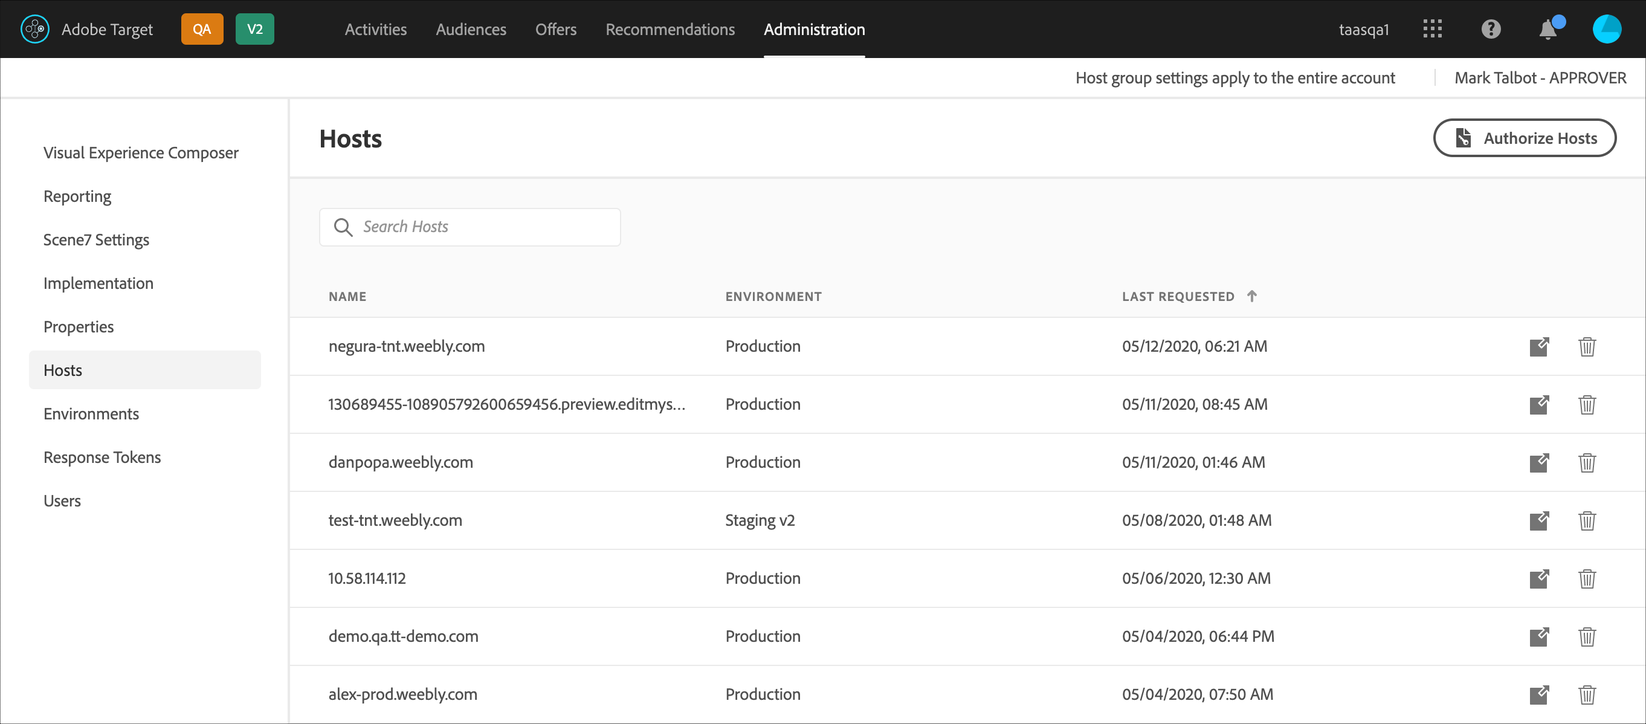
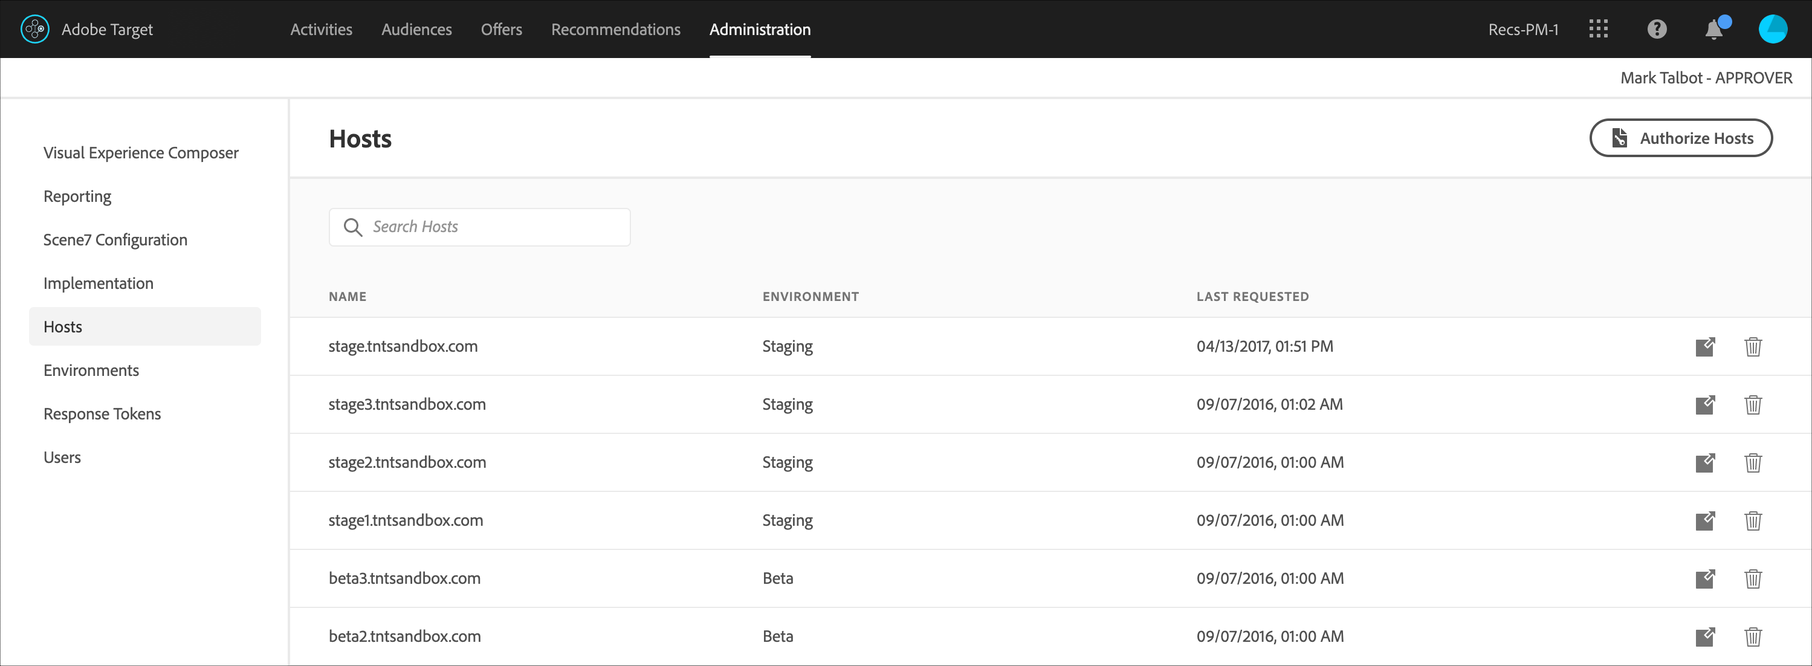
admin cleanup

diff --git a/help/administrating-target/reporting.md b/help/administrating-target/reporting.md
@@ -7,7 +7,7 @@ topic: Standard
 
 # Configure reporting in Target
 
-Configure general settings to use in Target reporting that apply to your entire [!DNL Target] account.
+Configure general settings to use in [!DNL Adobe Target] reporting that apply to your entire [!DNL Target] account.
 
 >[!NOTE]
 >
@@ -24,21 +24,24 @@ You can specify the following settings on this page:
 * Whether to show estimated lift in revenue in reporting
 * Whether to enable fine-grained priorities
 
+>[!NOTE]
+>
+>Be aware that the time zone, currency, and IP addresses to exclude settings apply to activities that use [!DNL Target] reporting. These settings do not apply to activities that use [Analytics for Target (A4T)] as the reporting source (/help/c-integrating-target-with-mac/a4t/a4t.md).
+
 ![Reporting page](/help/administrating-target/assets/reporting.png)
 
 ## Reporting Cloud Solution
 
 Set options that determine what data is used for your results and reports.
 
-Select the reporting source for your activities, either [!DNL Target] or Adobe Analytics. You can also choose to select your reporting source per activity. 
+Select the reporting source for your activities, either [!DNL Target] or [!DNL Adobe Analytics]. You can also choose to select your reporting source per activity. 
 
 Consider the following information as you choose your reporting source:
 
-* [!UICONTROL Auto-Allocate], [!UICONTROL Auto-Target], and [!UICONTROL Automated Personalization] (AP) activity creation, activation, and deactivation are allowed irrespective of the reporting source selected. These activity types are not supported when you choose [Adobe Analytics as the reporting source for Adobe Target (A4T)](/help/c-integrating-target-with-mac/a4t/a4t.md). Even if you specify Analytics as your reporting source, [!DNL Target] is used as the reporting source for these activity types.
-* If the reporting source is set to Analytics here, you are not allowed to activate an activity that uses [!DNL Target] as the reporting source (the reporting source is specified as Target per activity). You must change the reporting source to Analytics in your activity or change the reporting engine to Select Per Activity in Setup > Preferences.
-* If the reporting source is set to [!DNL Target] here, you are not allowed to activate an activity that uses Analytics as the reporting source. You must change the reporting source to [!DNL Target] in your activity or change the reporting source to Select Per Activity in Setup > Preferences.
-* If the reporting source is set to Select Per Activity here, you can create, activate, and deactivate activities that are supported by the selected reporting source. For a matrix of supported activities, see [Adobe Analytics as the reporting source for Adobe Target](/help/c-integrating-target-with-mac/a4t/a4t.md) (A4T).
-* When you switch from A/B Manual to [!UICONTROL Auto-Allocate] or [!UICONTROL Auto-Target], all metrics and reporting audiences are lost if the reporting source of the A/B Manual activity is not supported in [!UICONTROL Auto-Allocate] or [!UICONTROL Auto-Target] activities.
+* If the reporting source is set to **[!DNL Target]** here, you are not allowed to activate an activity that uses [!DNL Analytics] as the reporting source. You must change the reporting source to [!DNL Target] in your activity or change the reporting source to **[!UICONTROL Select per activity]** in **[!UICONTROL Administration] > [!UICONTROL Reporting]**.
+* If the reporting source is set to **[!DNL Analytics]** here, you are not allowed to activate an activity that uses [!DNL Target] as the reporting source (the reporting source is specified as **[!UICONTROL Target per activity])**. You must change the reporting source to [!DNL Analytics] in your activity or change the reporting engine to **[!UICONTROL Select per activity]** in **[!UICONTROL Administration] > [!UICONTROL Reporting]**.
+* If the reporting source is set to **[!UICONTROL Select per activity]** here, you can create, activate, and deactivate activities that are supported by the selected reporting source. For a matrix of supported activities, see [Supported activity types](/help/c-integrating-target-with-mac/a4t/a4t.md#section_F487896214BF4803AF78C552EF1669AA) in *Adobe Analytics as the reporting source for Adobe Target (A4t)*.
+* [!UICONTROL Automated Personalization] (AP) activity creation, activation, and deactivation are allowed irrespective of the reporting source selected. Automated Personalization activities are not supported when you choose [Adobe Analytics as the reporting source for Adobe Target (A4T)](/help/c-integrating-target-with-mac/a4t/a4t.md). Even if you specify [!DNL Analytics] as your reporting source, [!DNL Target] is used as the reporting source for Automated Personalization activities. For more information, see [Supported activity types](/help/c-integrating-target-with-mac/a4t/a4t.md#section_F487896214BF4803AF78C552EF1669AA) in *Adobe Analytics as the reporting source for Adobe Target (A4t)*.
 
 ## Timezone for Reporting
 
@@ -58,7 +61,7 @@ Enter each IP address on a new line.
 
 You can choose to show the estimated lift in revenue if you enter a monetary value for your goal. [!DNL Target] can estimate the revenue lift you would attain if all users view the winning experience. The estimated lift feature is disabled by default.
 
-Only Experience Cloud Admin users can enable or disable this feature. If estimated lift is disabled, the corresponding fields do not appear in the interface. Disabling the feature does not result in a loss of data, including the data used for your estimates. The estimates are based on data that is collected whether or not the feature is enabled.
+Only [!DNL Experience Cloud] Admin users can enable or disable this feature. If estimated lift is disabled, the corresponding fields do not appear in the interface. Disabling the feature does not result in a loss of data, including the data used for your estimates. The estimates are based on data that is collected whether or not the feature is enabled.
 
 For detailed information, see [Estimating Lift in Revenue](/help/administrating-target/r-target-account-preferences/estimating-lift-in-revenue.md).
 
@@ -66,6 +69,6 @@ For detailed information, see [Estimating Lift in Revenue](/help/administrating-
 
 Allow numerical entries for priority ranging from 0-999.
 
-Depending on your settings, the UI and options for  Priority  vary. You can use the legacy settings of Low, Medium, or High, or you can enable fine-grained priorities from 0 to 999.
+Depending on your settings, the UI and options for Priority  vary. You can use the legacy settings of Low, Medium, or High, or you can enable fine-grained priorities from 0 to 999.
 
 The priority is used if multiple activities are assigned to the same location with the same audience. If two or more activities are assigned to the location, the activity with the highest priority displays.

diff --git a/help/administrating-target/scene7-settings.md b/help/administrating-target/scene7-settings.md
@@ -6,9 +6,9 @@ topic: Standard
 uuid: 4b06a3ed-0e87-4e49-874f-2e479324f81c
 ---
 
-# Dynamic Media Classic integration{#scene-settings}
+# Scene7 configuration {#scene-settings}
 
-Target can be integrated with Adobe Dynamic Media Classic (formerly Scene7) to provide Digital Asset Management (DAM) in the Content Library.
+Target can be integrated with [!DNL Adobe Dynamic Media Classic] (formerly [!DNL Scene7]) to provide Digital Asset Management (DAM) in the Content Library.
 
 >[!NOTE]
 >
@@ -16,30 +16,30 @@ Target can be integrated with Adobe Dynamic Media Classic (formerly Scene7) to p
 
 >[!NOTE]
 >
->Integrating Target with Dynamic Media Classic enables delivery of assets (as part of activities) uploaded to the Adobe Experience Cloud assets folder. This integration does not enable access to all assets uploaded in Dynamic Media Classic for delivery in Target activities.
+>Integrating [!DNL Target] with [!DNL Dynamic Media Classic] enables delivery of assets (as part of activities) uploaded to the [!DNL Adobe Experience Cloud] assets folder. This integration does not enable access to all assets uploaded in [!DNL Dynamic Media Classic] for delivery in [!DNL Target] activities.
 
-If you already have a Dynamic Media account, you can supply your existing credentials. If you do not have an account, you can request a restricted-use Dynamic Media Classic account at no additional charge from your Adobe representative. This account can be used for purposes restricted for use in Target only. This service is made available to customers for workflows needing image-swap functionality.
+If you already have a [!DNL Dynamic Media] account, you can supply your existing credentials. If you do not have an account, you can request a restricted-use [!DNL Dynamic Media Classic] account at no additional charge from your [!DNL Adobe] representative. This account can be used for purposes restricted for use in [!DNL Target] only. This service is made available to customers for workflows needing image-swap functionality.
 
-If this setting is not configured, the Swap Image offer option within the activity creation workflow is not available. After this setting is configured, the option to swap/change image offers is available in both the [Visual Experience Composer (VEC) and in the Form-Based Experience Composer](../c-experiences/experiences.md#concept_A2E10F6AFB3D4AEAB6951EE14688848D). You can then leverage image offers with images that have been uploaded from the Adobe Experience Cloud for use in Target activities.
+If this setting is not configured, the [!UICONTROL Swap Image offer] option within the activity creation workflow is not available. After this setting is configured, the option to swap/change image offers is available in both the [Visual Experience Composer (VEC) and in the Form-Based Experience Composer](../c-experiences/experiences.md#concept_A2E10F6AFB3D4AEAB6951EE14688848D). You can then leverage image offers with images that have been uploaded from the [!DNL Adobe Experience Cloud] for use in [!DNL Target] activities.
 
-If you want to reference a public image URL directly in an offer or custom code during activity creation, you should deploy the image to your own web servers and use your own URL in the code. There is no way to obtain the published URL of an image uploaded into the Experience Cloud to consume directly or outside of targeting workflows using Adobe Target. This functionality is not allowed, as per contract.
+If you want to reference a public image URL directly in an offer or custom code during activity creation, you should deploy the image to your own web servers and use your own URL in the code. There is no way to obtain the published URL of an image uploaded into the [!DNL Experience Cloud] to consume directly or outside of targeting workflows using [!DNL Target]. This functionality is not allowed, as per contract.
 
-Note that the storage URL and the final publish URLs of images from Dynamic Media are different and one must NOT create offers using the storage link of images as delivery will not work in such cases. One must use the image offers capability as explained in our help documentation.
+Note that the storage URL and the final publish URLs of images from [!DNL Dynamic Media] are different and one must *NOT* create offers using the storage link of images as delivery will not work in such cases. You must use the image offers capability as explained in our help documentation.
 
-To integrate with Dynamic Media Classic (Scene7), you need to specify the following information. 
+To integrate with [!DNL Dynamic Media Classic] ([!DNL Scene7]), you need to specify the following information. 
 
-1. Click **[!UICONTROL Administration]** > **[!UICONTROL Scene7 Settings]**.
+1. Click **[!UICONTROL Administration]** > **[!UICONTROL Scene7 Configuration]**.
 
    ![Scene7 page](/help/administrating-target/assets/scene7.png)
 
-1. Specify the following Dynamic Media Classic account information:
+1. Specify the following [!DNL Dynamic Media Classic] account information:
 
-   **Region:** The region for your Dynamic Media account: North America, Europe, or Asia.
+   **Region:** The region for your [!DNL Dynamic Media] account: North America, Europe, or Asia.
 
-   **Adhoc folder:** The location for content that resides outside the target folder and are manually uploaded to Dynamic Media.
+   **Adhoc folder:** The location for content that resides outside the target folder and are manually uploaded to [!DNL Dynamic Media].
 
-   **Email address:** The email address used to log in to Dynamic Media Classic (Scene7).
+   **Email address:** The email address used to log in to [!DNL Dynamic Media Classic] ([!DNL Scene7]).
 
-   **Password:** The password used to log in to Dynamic Media Classic (Scene7).
+   **Password:** The password used to log in to [!DNL Dynamic Media Classic] ([!DNL Scene7]).
 
 1. Click **[!UICONTROL Submit]**.

diff --git a/help/administrating-target/hosts.md b/help/administrating-target/hosts.md
@@ -18,12 +18,6 @@ The primary goal of host management is to ensure that no inactive content accide
 
 A host is any web server (or web domain) from where you serve content during any stage of your project. Any host serving an mbox is recognized.
 
-Hosts are bundled into environments for ease of management. For example, you might have dozens of hosts grouped in two or three environments. The preset environments include [!UICONTROL Production], [!UICONTROL Staging], and [!UICONTROL Development]. You can add new environments and rename your environments, if desired.
-
-One environment, the default environment, is pre-named [!UICONTROL Production]. This default environment cannot be deleted, even if you rename it. [!DNL Target] assumes that this is where you will serve final, approved activities and tests.
-
-When an mbox request is received from new websites or domains, these new domains always appear in the [!UICONTROL Production] environment. The [!UICONTROL Production] environment cannot have its settings changed, so unknown or new sites are guaranteed to see only content that is active and ready. Host management also lets you easily ensure the quality of new activities and content in your test, staging, and development environments before you activate the activities.
-
 [!DNL Target] does not limit a host that can send and receive mboxes, so when new servers or domains come up, they automatically work (unless you've set up an allowlist or blocklist). This also enables ad testing on different domains you don't know or can't anticipate.
 
 To manage hosts, click **[!UICONTROL Administration]** > **[!UICONTROL Hosts]**.
@@ -55,7 +49,7 @@ After a host is added to the [!UICONTROL Host] list, make sure that the host is 
 
    By default, a newly recognized host is placed in the [!UICONTROL Production] environment. This is the safest environment because it does not allow inactive activities to be viewed from these hosts.
 
-1. (Conditional) Click the Move icon ( ![move icon](/help/administrating-target/assets/icon-move.png) ) to move the host into the [!UICONTROL Development], [!UICONTROL Staging], or other environment.
+1. (Conditional) Click the **[!UICONTROL Move]** icon ( ![move icon](/help/administrating-target/assets/icon-move.png) ) to move the host into the [!UICONTROL Development], [!UICONTROL Staging], or other environment.
 
 >[!NOTE]
 >
@@ -115,8 +109,6 @@ You can delete a host when it is no longer needed.
 >The host will be listed again if anyone browses to an mboxed page on the host.
 
 ## Troubleshooting hosts {#concept_B3D7583FA4BB480382CC7453529FE1B7}
-
-Best practices for managing and troubleshooting hosts in [!DNL Adobe Target].
 
 Try the following troubleshooting tips if you experience problems with your hosts:
 

diff --git a/help/administrating-target/environments.md b/help/administrating-target/environments.md
@@ -14,17 +14,11 @@ Organize your sites and pre-production environments for easy management and sepa
 >
 >The information in this topic has been updated to give you a sneak peak at the UI changes coming in the Target Standard/Premium 20.6.1 release (July 2020). Most of the information presented in this topic applies to the current UI; however, options might be in slightly different locations.
 
-The primary goal of host management is to ensure that no inactive content accidentally appears on websites. Host management also lets you separate report data by environment.
-
-A [host](/help/administrating-target/hosts.md) is any web server (or web domain) from where you serve content during any stage of your project. Any host serving an mbox is recognized.
-
 Hosts are bundled into environments for ease of management. For example, you might have dozens of hosts grouped in two or three environments. The preset environments include [!UICONTROL Production], [!UICONTROL Staging], and [!UICONTROL Development]. You can add new environments and rename your environments, if desired.
 
 One environment, the default environment, is pre-named [!UICONTROL Production]. This default environment cannot be deleted, even if you rename it. [!DNL Target] assumes that this is where you will serve final, approved activities and tests.
 
 When an mbox request is received from new websites or domains, these new domains always appear in the [!UICONTROL Production] environment. The [!UICONTROL Production] environment cannot have its settings changed, so unknown or new sites are guaranteed to see only content that is active and ready. Host management also lets you easily ensure the quality of new activities and content in your test, staging, and development environments before you activate the activities.
-
-[!DNL Target] does not limit a host that can send and receive mboxes, so when new servers or domains come up, they automatically work (unless you've set up an allowlist or blocklist). This also enables ad testing on different domains you don't know or can't anticipate.
 
 To manage environments, click **[!UICONTROL Administration]** > **[!UICONTROL Environments]**.
 
@@ -53,8 +47,7 @@ To set the default environment for reporting:
 
 ## Change the name of an environment {#section_9F5F94285F8E495E9CE69810CE94CA08}
 
-1. From the [!UICONTROL Environment] list, click the **[!UICONTROL Environments]** tab. 
-1. Click the **[!UICONTROL Edit]** icon. 
+1. From the [!UICONTROL Environment] list, click the **[!UICONTROL Edit]** icon. 
 1. Change the environment name. 
 1. Click **[!UICONTROL Save]**.
 

diff --git a/help/administrating-target/administrating-target.md b/help/administrating-target/administrating-target.md
@@ -1,6 +1,6 @@
 ---
-keywords: implement;implementing;setting up;setup
-description: Information to help you set up Adobe Target, including preferences, implementation, user management, properties, Scene7 settings, host management, and response tokens.
+keywords: setting up;setup;set-up;set up;administration
+description: Information to help you set up Adobe Target, including preferences, implementation, user management, properties, Scene7 configuration, host management, and response tokens.
 title: Administer Adobe Target
 subtopic: Getting Started
 topic: Standard
@@ -9,17 +9,17 @@ uuid: 496f2dbe-96e2-4cd5-ba2e-d980d80eceb9
 
 # Administer Target{#administer-target}
 
-Information to help you set up Adobe Target, including preferences, implementation, user management, properties, Scene7 settings, host management, and response tokens.
+Information to help you administer [!DNL Adobe Target], including configuration settings for the Visual Experience Composer (VEC), reporting, Scene7 configuration, implementation, hosts, environments, response tokens, and users.
 
 >[!NOTE]
 >
->The topics in this section, listed below, have been updated to give you a sneak peak at the UI changes coming in the Target Standard/Premium 20.6.1 release (July 2020). Most of the information presented in these topics applies to the current UI; however, options might be in slightly different locations.
+>The topics in this section, listed below, have been updated to give you a sneak peak at the UI changes coming in the [!DNL Target Standard/Premium] 20.6.1 release (July 2020). Most of the information presented in these topics applies to the current UI; however, options might be in slightly different locations.
 
-To access the [!UICONTROL Setup] menu items, click **[!UICONTROL Administration]** in the top menu bar, then click the desired tab along the left side:
+To access the [!UICONTROL Administration] menu items, click **[!UICONTROL Administration]** in the top menu bar, then click the desired tab along the left side:
 
 * [Visual Experience Composer](/help/administrating-target/visual-experience-composer-set-up.md)
 * [Reporting](/help/administrating-target/reporting.md)
-* [Scene7 Settings](/help/administrating-target/scene7-settings.md)
+* [Scene7 Configuration](/help/administrating-target/scene7-settings.md)
 * [Implementation](/help/c-implementing-target/implementing-target.md)
 * [Properties](/help/administrating-target/c-user-management/property-channel/property-channel.md)
 * [Hosts](/help/administrating-target/hosts.md)

diff --git a/help/administrating-target/visual-experience-composer-set-up.md b/help/administrating-target/visual-experience-composer-set-up.md
@@ -9,6 +9,10 @@ topic: Standard
 
 Configure the [!DNL Adobe Target] [!UICONTROL Visual Experience Composer] (VEC) by specifying its general settings, mobile viewport configuration, and CSS selectors.
 
+>[!NOTE]
+>
+>The topics in this section, listed below, have been updated to give you a sneak peak at the UI changes coming in the [!DNL Target Standard/Premium] 20.6.1 release (July 2020). Most of the information presented in these topics applies to the current UI; however, options might be in slightly different locations.
+
 To access the [!UICONTROL Visual Experience Composer] configuration page, click **[!UICONTROL Administration]** > **[!UICONTROL Visual Experience Composer].**
 
 >[!NOTE]
@@ -31,15 +35,15 @@ Set the default URL used by the [!UICONTROL Visual Experience Composer]. This is
 
 ### Enable Enhanced Experience Composer
 
-Allows editing on iFrame-busting sites and sites with mixed content. Some sites might not be compatible with the enhanced version. Deselect this option to revert to the original Visual Experience Composer. Activity delivery on sites is not affected by this choice.
+Allows editing on iFrame-busting sites and sites with mixed content. Some sites might not be compatible with the enhanced version. Deselect this option to revert to the original [!UICONTROL Visual Experience Composer]. Activity delivery on sites is not affected by this choice.
 
 For more information, see [Troubleshooting the Visual Experience Composer](/help/c-experiences/c-visual-experience-composer/r-troubleshoot-composer/troubleshoot-composer.md).
 
-You can also enable the Enhanced Experience Composer at the activity level.
+You can also enable the [!UICONTROL Enhanced Experience Composer] at the activity level.
 
 ### Load Mixed Content
 
-Enable mixed content while opening a website using the Enhanced Experience Composer (EEC). Enabling this option avoids the extra overhead of loading static resources via [!DNL Target] proxy servers.
+Enable mixed content while opening a website using the [!UICONTROL Enhanced Experience Composer] (EEC). Enabling this option avoids the extra overhead of loading static resources via [!DNL Target] proxy servers.
 
 This option is helpful if, for example:
 

diff --git a/help/administrating-target/response-tokens.md b/help/administrating-target/response-tokens.md
@@ -9,13 +9,13 @@ uuid: 20561673-d762-4c3d-bedc-94aeab5053d7
 
 # Response tokens{#response-tokens}
 
-Response tokens let you automatically output Target-specific information (campaign details, user profile information, geo information, and so forth) to use in debugging or integrating with 3rd-party systems (such as Clicktale).
+Response tokens let you automatically output information specific to [!DNL Target] (activity details, user profile information, geo information, and so forth) to use in debugging or integrating with 3rd-party systems (such as Clicktale).
 
 >[!NOTE]
 >
 >The information in this topic has been updated to give you a sneak peak at the UI changes coming in the Target Standard/Premium 20.6.1 release (July 2020). Most of the information presented in this topic applies to the current UI; however, options might be in slightly different locations.
 
-Response tokens let you choose which variables to leverage and then enable them to be sent as part of an mbox response. In order to do so, you simply enable a variable using the switch and the variable will be sent with mbox responses, which can be validated in network calls. Response tokens work in Preview mode as well.
+Response tokens let you choose which variables to leverage and then enable them to be sent as part of an mbox response. In order to do so, you simply enable a variable using the switch and the variable will be sent with mbox responses, which can be validated in network calls. Response tokens work in [!UICONTROL Preview] mode as well.
 
 A key difference between plug-ins and response tokens is that while plug-ins deliver JavaScript to the page that would execute upon delivery, response tokens deliver an object that can then can be read and acted upon using event listeners. For more information, see [at.js custom events](/help/c-implementing-target/c-implementing-target-for-client-side-web/atjs-custom-events.md) and the examples later in this article. The response tokens approach is safer and should allow for easier development and maintenance of 3rd-party integrations.
 

diff --git a/help/administrating-target/c-user-management/c-user-management/user-management.md b/help/administrating-target/c-user-management/c-user-management/user-management.md
@@ -34,6 +34,18 @@ By default all [!DNL Target] users start with observer permissions.
 
 Admin users are identified in the [!UICONTROL Users] list. Contact one of the system admin users if you need your access level changed.
 
+### View user information from within Taget
+
+You can view a list of your current users in your Target environment, including their roles per workspace and email addresses directly from inside Target.
+
+To view the Users page, click **[!UICONTROL Administration]** > **[!UICONTROL Users]**.
+
+![User list from within Target](/help/administrating-target/c-user-management/c-user-management/assets/user-list-target.png)
+
+>[!NOTE]
+>
+>To manage existing user or to add new users, you must use the [!UICONTROL Adobe Admin Console], as explained below.
+
 ## Access the Adobe Admin Console {#access}
 
 For tasks performed in the Adobe Admin Console, access the console by following these steps:

diff --git a/help/administrating-target/implementation.md b/help/administrating-target/implementation.md
@@ -8,7 +8,7 @@ topic: Standard
 
 # Implementation
 
-Before you start using [!DNL Adobe Target], you should implement it on your site, understand a few basic concepts and terms, be familiar with how [!DNL Target] works and integrates with your infrastructure, and understand how visitors are tracked by the [!DNL Target] system.
+Before you start using [!DNL Adobe Target], you should implement it on your site, understand a few basic concepts and terms; be familiar with how [!DNL Target] works and integrates with your infrastructure; and understand how visitors are tracked by the [!DNL Target] system.
 
 For more information, see the various topics under [Implement Target](/help/c-implementing-target/implementing-target.md).
 

diff --git a/help/TOC.md b/help/TOC.md
@@ -34,7 +34,7 @@ solution: Target
    + Reporting {#reporting}
       + [Configure reporting](/help/administrating-target/reporting.md)
       + [Estimating Lift in Revenue](/help/administrating-target/r-target-account-preferences/estimating-lift-in-revenue.md)
-   + [Dynamic Media Classic integration](administrating-target/scene7-settings.md)
+   + [Scene7 configuration](administrating-target/scene7-settings.md)
    + [Implementation](/help/administrating-target/implementation.md)
    + [Hosts](administrating-target/hosts.md)
    + [Environments](/help/administrating-target/environments.md)
